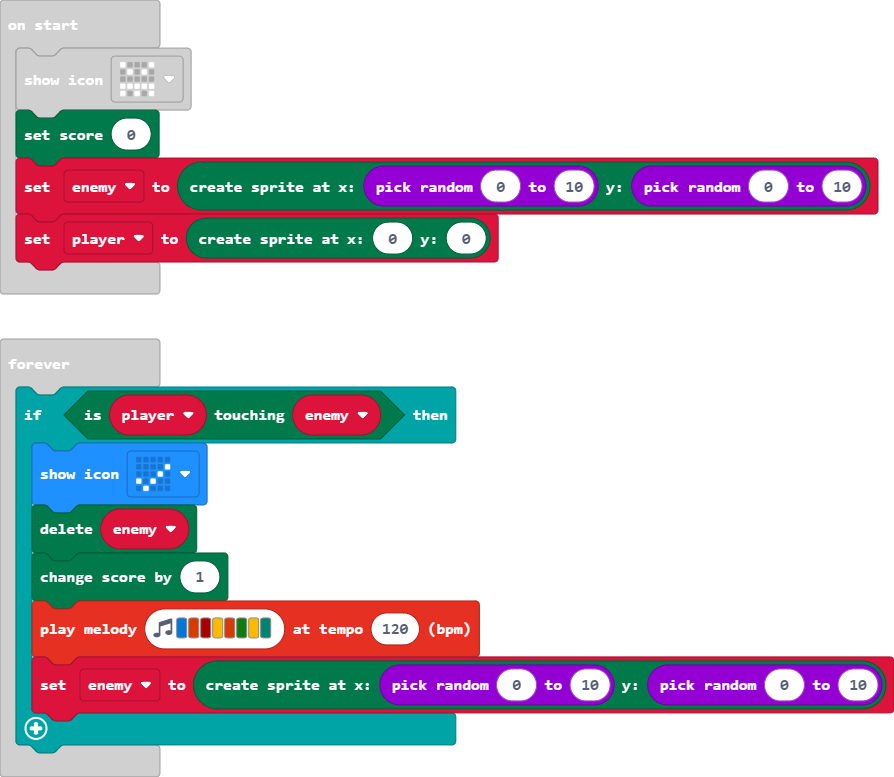
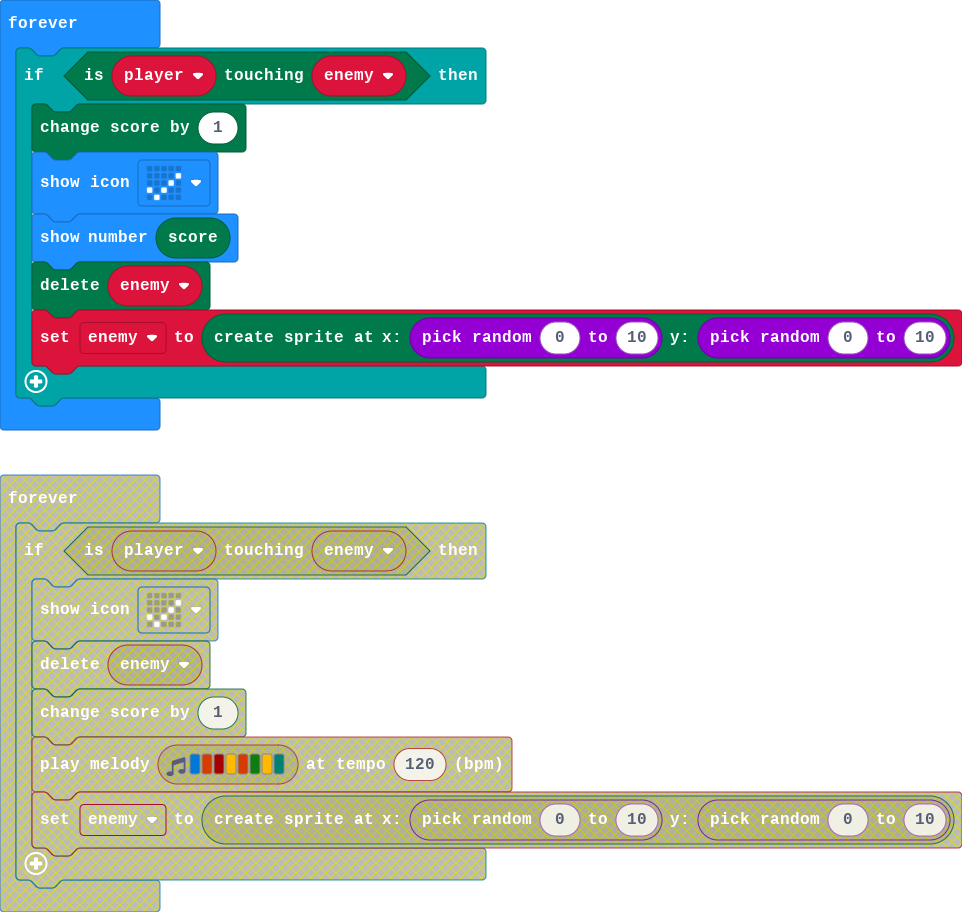
Update main.blocks, main.ts

diff --git a/main.ts b/main.ts
@@ -17,10 +17,10 @@ let enemy = game.createSprite(randint(0, 10), randint(0, 10))
 player = game.createSprite(0, 0)
 basic.forever(function () {
     if (player.isTouching(enemy)) {
-        basic.showIcon(IconNames.Yes)
-        enemy.delete()
         game.addScore(1)
-        music.playMelody("E B C5 A B G A F ", 120)
+        basic.showIcon(IconNames.Yes)
+        basic.showNumber(game.score())
+        enemy.delete()
         enemy = game.createSprite(randint(0, 10), randint(0, 10))
     }
 })
